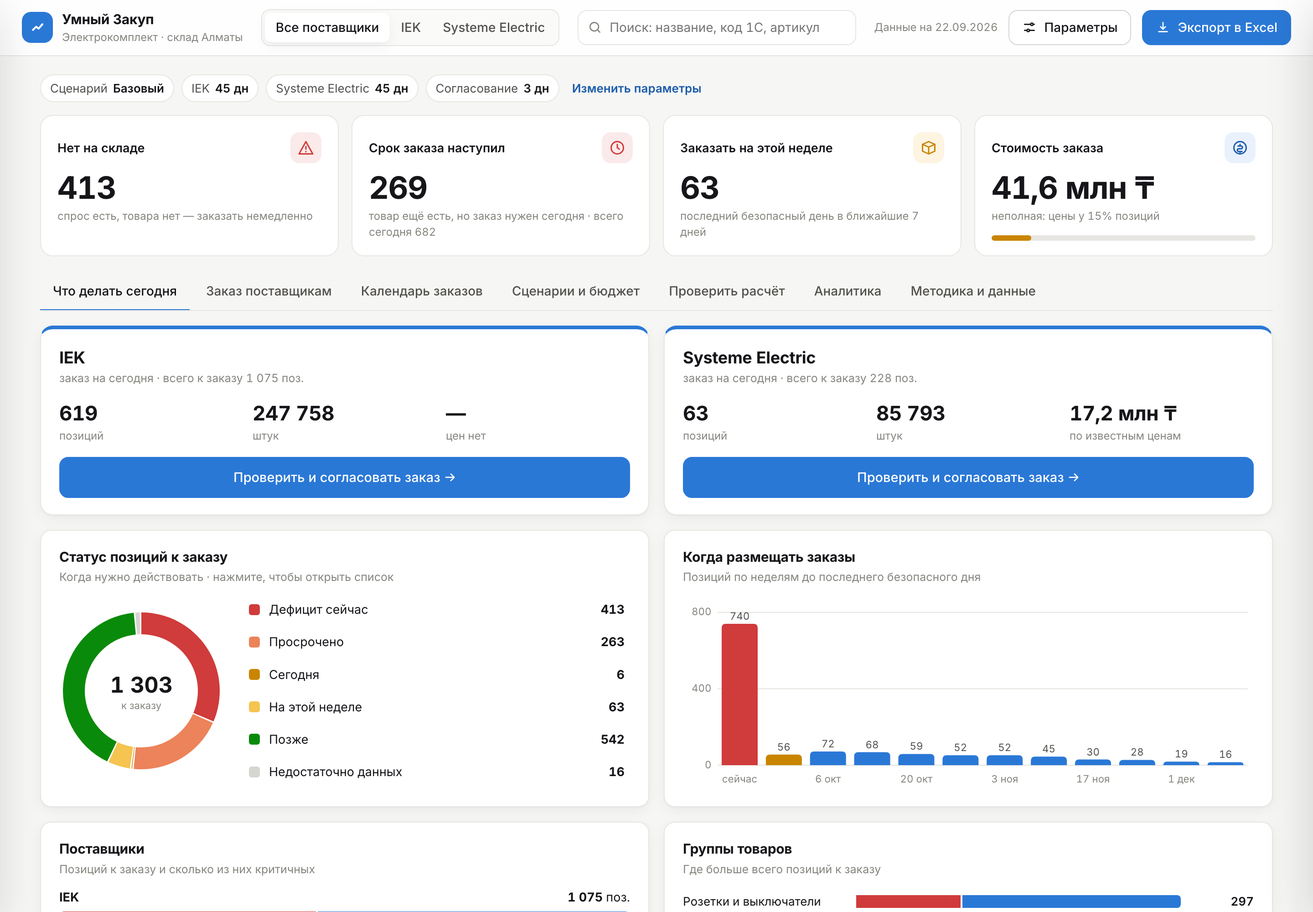
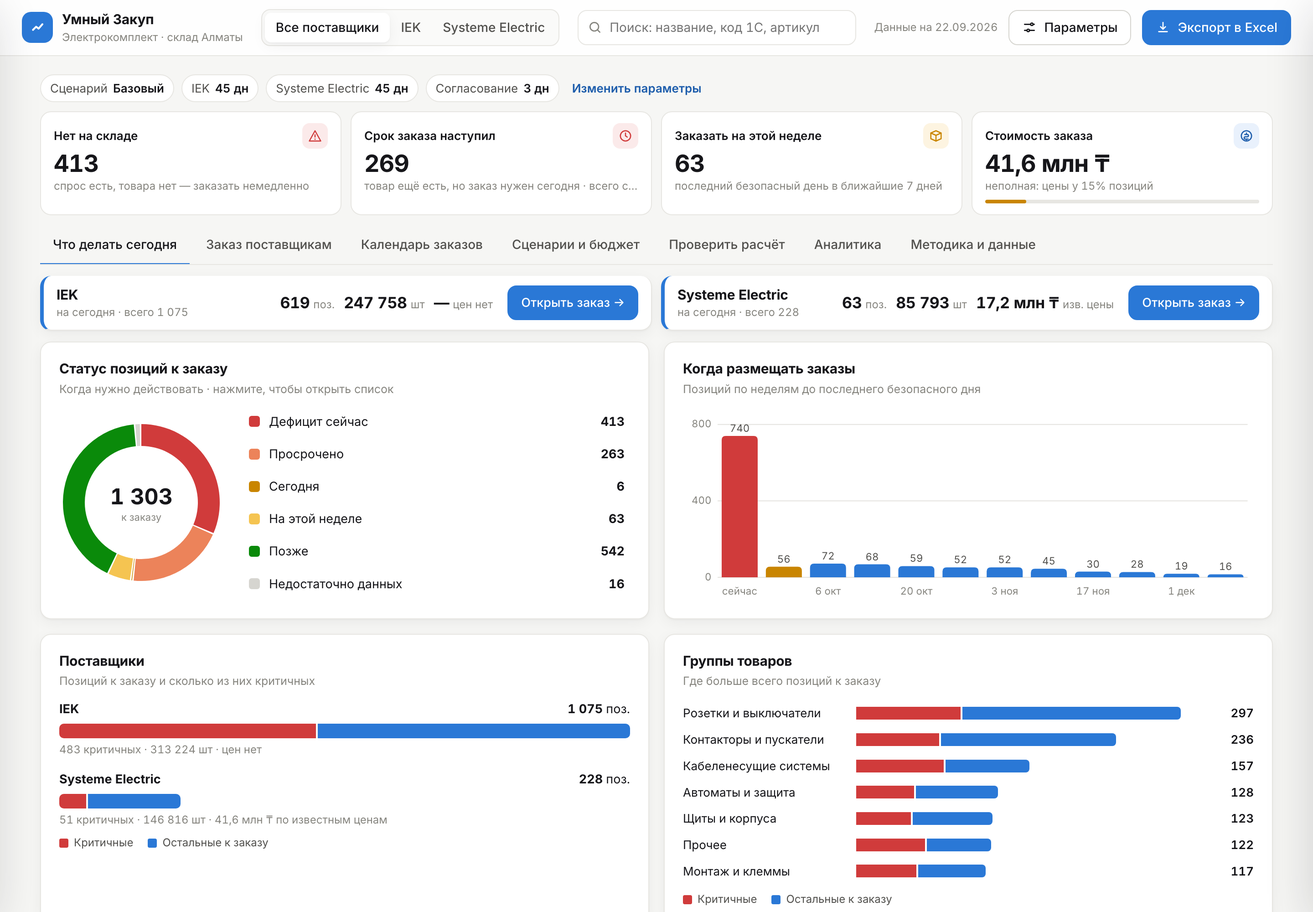
Manual item selection in supplier order (checkboxes, search, add any item); compact KPI and supplier cards

diff --git a/web/app.js b/web/app.js
@@ -272,7 +272,20 @@
     all: ["Весь заказ", "все рекомендованные позиции", (x) => x.final > 0],
   };
   let sheet = { k: null, scope: "today" };
-  const orderLines = (k, scope) => rows.filter((x) => x.s.sup === k && SCOPES[scope][2](x)).sort(Engine.actionCompare);
+  // ручной выбор: off — снятые галочки, add — товары, добавленные вручную через поиск
+  state.pick = store.get("pick", {});
+  const pickOf = (k) => (state.pick[k] ||= { off: [], add: [] });
+  const savePick = () => store.set("pick", state.pick);
+  /** Кандидаты в заказ: рекомендованные в выбранном наборе + добавленные вручную. */
+  function orderCandidates(k, scope) {
+    const pk = pickOf(k);
+    const base = rows.filter((x) => x.s.sup === k && SCOPES[scope][2](x));
+    const ids = new Set(base.map((x) => x.s.id));
+    const added = pk.add.map((id) => rows.find((x) => x.s.id === id)).filter((x) => x && !ids.has(x.s.id));
+    return [...base.sort(Engine.actionCompare), ...added].map((x) => ({ ...x, on: !pk.off.includes(x.s.id), manual: !ids.has(x.s.id) }));
+  }
+  /** Позиции, которые реально уходят в заказ: отмечены и количество > 0. */
+  const orderLines = (k, scope) => orderCandidates(k, scope).filter((x) => x.on && x.final > 0);
   const orderFile = (k) => `Заказ_${SUPS[k].name.replace(/\s+/g, "_")}_${META.asOf}.xlsx`;
 
   function orderSummary(k, lines) {
@@ -291,72 +304,111 @@
   }
 
   function openOrderSheet(k, scope = sheet.scope) {
-    sheet = { k, scope };
+    sheet = { k, scope, q: "" };
     openId = null;
-    const lines = orderLines(k, scope);
+    const d = $("#drawer");
+    d.innerHTML = `
+      <div class="d-head"><div style="min-width:0;flex:1">
+          <div class="muted" style="font-size:12.5px;margin-bottom:4px" id="osStep"></div>
+          <h2>Заказ ${esc(SUPS[k].name)}</h2>
+          <div class="seg" style="margin-top:10px;max-width:100%;overflow-x:auto" role="tablist">${Object.entries(SCOPES).map(([key, [l]]) => `<button class="${key === scope ? "active" : ""}" data-scope="${key}">${l}</button>`).join("")}</div>
+        </div>
+        <button class="d-close" aria-label="Закрыть"><svg viewBox="0 0 24 24"><path d="M6 6l12 12M18 6L6 18"/></svg></button></div>
+      <div class="d-body">
+        <div id="osSum"></div>
+        <div class="os-search">
+          <svg viewBox="0 0 24 24" aria-hidden="true"><circle cx="11" cy="11" r="7"/><path d="M20 20l-3.5-3.5"/></svg>
+          <input id="osQ" type="search" placeholder="Найти товар ${esc(SUPS[k].name)}: название, код 1С, артикул" autocomplete="off" aria-label="Поиск товара в заказе">
+        </div>
+        <div id="osFound"></div>
+        <div id="osList"></div>
+      </div>`;
+    $(".d-close", d).onclick = closeDrawer;
+    $$("[data-scope]", d).forEach((b) => (b.onclick = () => openOrderSheet(k, b.dataset.scope)));
+    let qt;
+    $("#osQ").oninput = (e) => { clearTimeout(qt); qt = setTimeout(() => { sheet.q = e.target.value.trim().toLowerCase(); refreshSheet(); }, 120); };
+    refreshSheet();
+    d.classList.add("open"); d.setAttribute("aria-hidden", "false"); $("#scrim").hidden = false;
+  }
+
+  function refreshSheet() {
+    const { k, scope, q } = sheet;
+    const cand = orderCandidates(k, scope);
+    const lines = cand.filter((x) => x.on && x.final > 0);
     const cov = Engine.priceCoverage(lines);
     const units = lines.reduce((a, x) => a + x.final, 0);
     const crit = lines.filter((x) => ST[x.r.status].rank <= 1).length;
     const ap = state.approved[k];
-    const d = $("#drawer");
-    d.innerHTML = `
-      <div class="d-head"><div>
-          <div class="muted" style="font-size:12.5px;margin-bottom:4px">Заказ поставщику · шаг ${ap ? "3 из 3: отправка" : "1–2 из 3: проверка и согласование"}</div>
-          <h2>${esc(SUPS[k].name)}</h2>
-          <div class="seg" style="margin-top:10px" role="tablist">${Object.entries(SCOPES).map(([key, [l]]) => `<button class="${key === scope ? "active" : ""}" data-scope="${key}">${l}</button>`).join("")}</div>
-        </div>
-        <button class="d-close" aria-label="Закрыть"><svg viewBox="0 0 24 24"><path d="M6 6l12 12M18 6L6 18"/></svg></button></div>
-      <div class="d-body">
-        <div class="facts">
-          <div class="fact main"><div class="f-l">Позиций</div><div class="f-v">${fmt(lines.length)}</div><div class="f-s">${esc(SCOPES[scope][1])}</div></div>
-          <div class="fact"><div class="f-l">Штук</div><div class="f-v">${fmt(units)}</div></div>
-          <div class="fact ${crit ? "crit" : ""}"><div class="f-l">Товара нет или просрочено</div><div class="f-v">${fmt(crit)}</div></div>
-          <div class="fact"><div class="f-l">Сумма</div><div class="f-v">${cov.priced ? money(cov.value) : "Нет данных"}</div><div class="f-s">${cov.missing ? `цены у ${fmt(cov.priced)} из ${fmt(cov.lines)} позиций` : "по себестоимости"}</div></div>
-        </div>
-        <div class="order-steps">
-          ${ap
-            ? `<div class="step-done"><svg viewBox="0 0 24 24"><path d="M5 12l5 5 9-10"/></svg>Согласовано ${esc(ap.at)} на этом устройстве <button class="btn sm ghost" id="osUnapprove">Отменить</button></div>
-               <div class="send-row">
-                 <button class="btn share wa" id="osWa"><svg viewBox="0 0 24 24"><path d="M4 20l1.3-4A8 8 0 1 1 8 19z"/></svg>WhatsApp</button>
-                 <button class="btn share tg" id="osTg"><svg viewBox="0 0 24 24"><path d="M21 4L3 11l6 2 2 6 3-4 5 4z"/></svg>Telegram</button>
-                 <button class="btn share" id="osMail"><svg viewBox="0 0 24 24"><rect x="3" y="5" width="18" height="14" rx="2"/><path d="M3 7l9 6 9-6"/></svg>Почта</button>
-                 ${navigator.canShare ? `<button class="btn share" id="osShare"><svg viewBox="0 0 24 24"><path d="M12 3v12M7 8l5-5 5 5M5 14v5h14v-5"/></svg>Поделиться файлом</button>` : ""}
-                 <button class="btn share" id="osXls"><svg viewBox="0 0 24 24"><path d="M12 4v11m0 0l-4-4m4 4l4-4M5 19h14"/></svg>Скачать Excel</button>
-               </div>
-               <p class="muted" style="font-size:12px;margin:8px 0 0">Сервис ничего не отправляет сам: откроется мессенджер с готовым текстом, получателя выбираете вы. Из браузера на компьютере файл приложить нельзя — Excel скачается, прикрепите его к сообщению. На телефоне «Поделиться файлом» отправит Excel сразу.</p>`
-            : `<p class="say" style="margin:0 0 10px">Проверьте количество — его можно изменить прямо в списке. Затем согласуйте заказ, и появятся кнопки отправки.</p>
-               <div class="send-row"><button class="btn success" id="osApprove" ${lines.length ? "" : "disabled"}>Согласовать заказ</button><button class="btn" id="osXls">Скачать Excel</button></div>`}
-        </div>
-        ${lines.length ? `<div class="table-wrap"><table class="acts">
-          <thead><tr><th>Товар</th><th>Статус</th><th>Заказать до</th><th class="r">Заказ, шт</th></tr></thead>
-          <tbody>${lines.slice(0, 300).map((x) => `<tr data-id="${esc(x.s.id)}">
-            <td><div class="p-name">${esc(x.s.n)}</div><div class="p-meta"><span>${esc(x.s.id)}</span>${x.s.art ? `<span>${esc(x.s.art)}</span>` : ""}</div></td>
-            <td>${statusPill(x.r.status)}</td>
-            <td class="num">${x.r.status === "now" ? "немедленно" : x.r.safeDay == null ? NA : x.r.safeDay <= 0 ? "сегодня" : Engine.fmtDay(x.r.safeDay)}</td>
-            <td class="r"><input class="qty-input ${state.overrides[x.s.id] != null ? "edited" : ""}" type="number" min="0" step="${x.s.moq}" value="${x.final}" data-oq="${esc(x.s.id)}" ${ap ? "disabled" : ""} aria-label="Количество"></td>
-          </tr>`).join("")}</tbody></table></div>
-          ${lines.length > 300 ? `<p class="muted" style="font-size:12.5px">Показаны первые 300 из ${fmt(lines.length)} — полный список в Excel.</p>` : ""}`
-        : `<div class="empty">В этом наборе позиций нет. Выберите «+ эта неделя» или «Весь заказ».</div>`}
+    const off = cand.filter((x) => !x.on).length;
+    const manual = cand.filter((x) => x.manual).length;
+    $("#osStep").textContent = `Заказ поставщику · ${ap ? "шаг 3 из 3: отправка" : "шаг 1–2 из 3: выбор и согласование"}`;
+    $("#osSum").innerHTML = `
+      <div class="os-facts">
+        <div><b class="num">${fmt(lines.length)}</b><span>позиций в заказе${off ? ` · ${fmt(off)} снято` : ""}${manual ? ` · ${fmt(manual)} добавлено` : ""}</span></div>
+        <div><b class="num">${fmt(units)}</b><span>штук</span></div>
+        <div class="${crit ? "crit" : ""}"><b class="num">${fmt(crit)}</b><span>нет товара или просрочено</span></div>
+        <div><b class="num">${cov.priced ? money(cov.value) : "—"}</b><span>${cov.priced ? (cov.missing ? `по ценам ${fmt(cov.priced)} из ${fmt(cov.lines)} поз.` : "по себестоимости") : "цен нет"}</span></div>
+      </div>
+      <div class="order-steps">
+        ${ap
+          ? `<div class="step-done"><svg viewBox="0 0 24 24"><path d="M5 12l5 5 9-10"/></svg>Согласовано ${esc(ap.at)} на этом устройстве <button class="btn sm ghost" id="osUnapprove">Изменить заказ</button></div>
+             <div class="send-row">
+               <button class="btn share wa" id="osWa"><svg viewBox="0 0 24 24"><path d="M4 20l1.3-4A8 8 0 1 1 8 19z"/></svg>WhatsApp</button>
+               <button class="btn share tg" id="osTg"><svg viewBox="0 0 24 24"><path d="M21 4L3 11l6 2 2 6 3-4 5 4z"/></svg>Telegram</button>
+               <button class="btn share" id="osMail"><svg viewBox="0 0 24 24"><rect x="3" y="5" width="18" height="14" rx="2"/><path d="M3 7l9 6 9-6"/></svg>Почта</button>
+               ${navigator.canShare ? `<button class="btn share" id="osShare"><svg viewBox="0 0 24 24"><path d="M12 3v12M7 8l5-5 5 5M5 14v5h14v-5"/></svg>Поделиться файлом</button>` : ""}
+               <button class="btn share" id="osXls"><svg viewBox="0 0 24 24"><path d="M12 4v11m0 0l-4-4m4 4l4-4M5 19h14"/></svg>Excel</button>
+             </div>
+             <p class="muted" style="font-size:12px;margin:8px 0 0">Сервис ничего не отправляет сам: откроется мессенджер с готовым текстом, получателя выбираете вы. На компьютере Excel скачается — приложите его к сообщению; на телефоне «Поделиться файлом» отправит Excel сразу.</p>`
+          : `<div class="send-row" style="align-items:center"><button class="btn success" id="osApprove" ${lines.length ? "" : "disabled"}>Согласовать заказ · ${fmt(lines.length)} поз.</button><button class="btn" id="osXls">Excel</button>
+             <span class="muted" style="font-size:12.5px">Снимите галочки с лишнего, поправьте количество или добавьте товар через поиск.</span></div>`}
       </div>`;
-    $(".d-close", d).onclick = closeDrawer;
-    $$("[data-scope]", d).forEach((b) => (b.onclick = () => openOrderSheet(k, b.dataset.scope)));
-    $$("[data-oq]", d).forEach((inp) => (inp.onchange = () => {
+    // найденные товары поставщика, которых нет в списке — можно добавить
+    const inList = new Set(cand.map((x) => x.s.id));
+    const match = (x) => `${x.s.n} ${x.s.id} ${x.s.art || ""}`.toLowerCase().includes(q);
+    const found = q.length >= 2 && !ap ? rows.filter((x) => x.s.sup === k && !inList.has(x.s.id) && match(x)).slice(0, 8) : [];
+    $("#osFound").innerHTML = found.length ? `<div class="os-found"><div class="muted" style="font-size:12.5px;margin-bottom:6px">Нет в заказе — можно добавить:</div>
+      ${found.map((x) => `<div class="os-f"><span><b>${esc(x.s.n)}</b><br><span class="muted">${esc(x.s.id)}${x.s.art ? " · " + esc(x.s.art) : ""} · остаток ${fmt(x.r.stock)} · ${x.r.qty > 0 ? `рекомендовано ${fmt(x.r.qty)} шт` : "сервис не рекомендует заказ"}</span></span><button class="btn sm" data-add="${esc(x.s.id)}">+ Добавить</button></div>`).join("")}</div>` : "";
+    const shown = q ? cand.filter(match) : cand;
+    $("#osList").innerHTML = shown.length ? `<div class="table-wrap"><table class="acts os-table">
+        <thead><tr><th style="width:34px"><input type="checkbox" id="osAll" ${shown.every((x) => x.on) ? "checked" : ""} ${ap ? "disabled" : ""} aria-label="Выбрать все показанные"></th><th>Товар</th><th>Статус</th><th class="r">Заказ, шт</th></tr></thead>
+        <tbody>${shown.slice(0, 400).map((x) => `<tr class="${x.on ? "" : "off"}">
+          <td><input type="checkbox" data-on="${esc(x.s.id)}" ${x.on ? "checked" : ""} ${ap ? "disabled" : ""} aria-label="Включить в заказ"></td>
+          <td><div class="p-name">${esc(x.s.n)}${x.manual ? ' <span class="badge in">добавлен вручную</span>' : ""}</div><div class="p-meta"><span>${esc(x.s.id)}</span>${x.s.art ? `<span>${esc(x.s.art)}</span>` : ""}<span>${x.r.status === "now" ? "заказать немедленно" : x.r.safeDay == null ? "" : x.r.safeDay <= 0 ? "заказать сегодня" : "до " + Engine.fmtDay(x.r.safeDay)}</span></div></td>
+          <td>${statusPill(x.r.status)}</td>
+          <td class="r"><input class="qty-input ${state.overrides[x.s.id] != null ? "edited" : ""}" type="number" min="0" step="${x.s.moq}" value="${x.final}" data-oq="${esc(x.s.id)}" ${ap || !x.on ? "disabled" : ""} aria-label="Количество">${x.on && !(x.final > 0) ? '<div class="rec-hint" style="color:var(--warn)">укажите количество</div>' : ""}</td>
+        </tr>`).join("")}</tbody></table></div>
+        ${shown.length > 400 ? `<p class="muted" style="font-size:12.5px">Показаны первые 400 из ${fmt(shown.length)} — уточните поиск. В заказ и Excel попадают все отмеченные.</p>` : ""}`
+      : `<div class="empty">${q ? "В заказе таких товаров нет — выше можно добавить найденные." : "В этом наборе позиций нет. Выберите «+ эта неделя» или «Весь заказ»."}</div>`;
+
+    const pk = pickOf(k);
+    const setOn = (id, on) => { pk.off = pk.off.filter((x) => x !== id); if (!on) pk.off.push(id); };
+    $$("[data-on]").forEach((c) => (c.onchange = () => { setOn(c.dataset.on, c.checked); savePick(); refreshSheet(); }));
+    if ($("#osAll")) $("#osAll").onchange = (e) => { shown.forEach((x) => setOn(x.s.id, e.target.checked)); savePick(); refreshSheet(); };
+    $$("[data-add]").forEach((b) => (b.onclick = () => {
+      const id = b.dataset.add;
+      if (!pk.add.includes(id)) pk.add.push(id);
+      setOn(id, true); savePick();
+      const x = rows.find((r) => r.s.id === id);
+      if (!(x.final > 0)) toast("Товар добавлен — укажите количество");
+      refreshSheet();
+    }));
+    $$("[data-oq]").forEach((inp) => (inp.onchange = () => {
       const row = rows.find((x) => x.s.id === inp.dataset.oq);
       const v = Math.max(0, Math.round(+inp.value || 0));
       if (v === row.r.qty) delete state.overrides[row.s.id]; else state.overrides[row.s.id] = v;
-      store.set("overrides", state.overrides); recompute(); render(); openOrderSheet(k, scope);
+      store.set("overrides", state.overrides); recompute(); render(); refreshSheet();
     }));
     const xls = () => { XLSX.writeFile(buildWorkbook([k], () => lines, ap ? `Согласовано ${ap.at}, отправляет менеджер` : null), orderFile(k)); };
     $("#osXls").onclick = () => { xls(); toast("Excel скачан"); };
     if (!ap) {
       $("#osApprove").onclick = () => {
         state.approved[k] = { at: new Date().toLocaleString("ru-RU", { day: "2-digit", month: "2-digit", hour: "2-digit", minute: "2-digit" }), n: lines.length };
-        store.set("approved", state.approved); render(); openOrderSheet(k, scope); toast("Заказ согласован — выберите, куда отправить");
+        store.set("approved", state.approved); render(); refreshSheet(); toast("Заказ согласован — выберите, куда отправить");
       };
-      d.classList.add("open"); d.setAttribute("aria-hidden", "false"); $("#scrim").hidden = false;
       return;
     }
-    $("#osUnapprove").onclick = () => { delete state.approved[k]; store.set("approved", state.approved); render(); openOrderSheet(k, scope); };
+    $("#osUnapprove").onclick = () => { delete state.approved[k]; store.set("approved", state.approved); render(); refreshSheet(); };
     const text = orderSummary(k, lines);
     const go = (url) => window.open(url, "_blank", "noopener");
     $("#osWa").onclick = () => { xls(); go(`https://wa.me/?text=${encodeURIComponent(text)}`); };
@@ -366,23 +418,24 @@
       const blob = new Blob([XLSX.write(buildWorkbook([k], () => lines, `Согласовано ${ap.at}`), { type: "array", bookType: "xlsx" })], { type: "application/vnd.openxmlformats-officedocument.spreadsheetml.sheet" });
       const file = new File([blob], orderFile(k), { type: blob.type });
       if (navigator.canShare && navigator.canShare({ files: [file] })) {
-        try { await navigator.share({ files: [file], title: `Заказ ${SUPS[k].name}`, text: text.split("\n").slice(0, 3).join("\n") }); } catch { /* пользователь отменил */ }
+        try { await navigator.share({ files: [file], title: `Заказ ${SUPS[k].name}`, text: text.split("\n").slice(0, 3).join("\n") }); } catch { /* отменено */ }
       } else { xls(); toast("Это устройство не умеет делиться файлом — Excel скачан"); }
     };
-    d.classList.add("open"); d.setAttribute("aria-hidden", "false"); $("#scrim").hidden = false;
   }
 
   function supplierOrderCards(base) {
     return `<div class="order-cards">${Object.keys(REAL_SUPS).filter((k) => state.sup === "all" || k === state.sup).map((k) => {
-      const today = base.filter((x) => x.s.sup === k && Engine.isOrderToday(x));
+      const lines = orderLines(k, "today");
       const all = base.filter((x) => x.s.sup === k && x.final > 0);
-      const cov = Engine.priceCoverage(today);
+      const cov = Engine.priceCoverage(lines);
       const ap = state.approved[k];
+      const pk = pickOf(k);
+      const edited = pk.off.length || pk.add.length;
       return `<div class="order-card">
-        <div class="oc-top"><div><div class="oc-sup">${esc(REAL_SUPS[k].name)}</div><div class="muted" style="font-size:12.5px">заказ на сегодня · всего к заказу ${fmt(all.length)} поз.</div></div>
-          ${ap ? `<span class="approved-badge"><svg viewBox="0 0 24 24"><path d="M5 12l5 5 9-10"/></svg>Согласован ${esc(ap.at)}</span>` : ""}</div>
-        <div class="oc-nums"><div><b class="num">${fmt(today.length)}</b><span>позиций</span></div><div><b class="num">${fmt(today.reduce((a, x) => a + x.final, 0))}</b><span>штук</span></div><div><b class="num">${cov.priced ? money(cov.value) : "—"}</b><span>${cov.priced ? (cov.missing ? "по известным ценам" : "сумма") : "цен нет"}</span></div></div>
-        <button class="btn primary oc-btn" data-order="${k}">${ap ? "Отправить заказ" : "Проверить и согласовать заказ"} →</button>
+        <div class="oc-name"><div class="oc-sup">${esc(REAL_SUPS[k].name)}</div><div class="muted">на сегодня${edited ? " · изменён" : ""} · всего ${fmt(all.length)}</div></div>
+        <div class="oc-nums"><div><b class="num">${fmt(lines.length)}</b><span>поз.</span></div><div><b class="num">${fmt(lines.reduce((a, x) => a + x.final, 0))}</b><span>шт</span></div><div><b class="num">${cov.priced ? money(cov.value) : "—"}</b><span>${cov.priced ? (cov.missing ? "изв. цены" : "сумма") : "цен нет"}</span></div></div>
+        ${ap ? `<span class="approved-badge"><svg viewBox="0 0 24 24"><path d="M5 12l5 5 9-10"/></svg>${esc(ap.at)}</span>` : ""}
+        <button class="btn primary oc-btn" data-order="${k}">${ap ? "Отправить" : "Открыть заказ"} →</button>
       </div>`;
     }).join("")}</div>`;
   }

diff --git a/web/styles.css b/web/styles.css
@@ -475,3 +475,62 @@ h2.sec:first-child { margin-top: 4px; }
   .kpi .k-value { font-size: 22px; }
   .d-head, .d-body { padding-left: 16px; padding-right: 16px; }
 }
+
+/* ---------- компактнее: показатели и поставщики ---------- */
+.ctx { margin-bottom: 10px; }
+.kpis { gap: 10px !important; margin-bottom: 12px !important; }
+.kpi { padding: 12px 14px !important; border-radius: 12px !important; gap: 0; }
+.kpi .k-ico { width: 28px; height: 28px; border-radius: 8px; }
+.kpi .k-ico svg { width: 15px; height: 15px; }
+.kpi .k-value { font-size: 26px !important; margin-top: 2px !important; }
+.kpi .k-label { font-size: 13px !important; }
+.kpi .k-sub { white-space: nowrap; overflow: hidden; text-overflow: ellipsis; }
+.kpi .k-bar { margin-top: 6px; height: 4px; }
+.order-cards { gap: 10px; margin-bottom: 12px; grid-template-columns: repeat(auto-fit, minmax(420px, 1fr)); }
+.order-card { flex-direction: row; align-items: center; gap: 14px; padding: 10px 14px; border-top: 0; border-left: 4px solid var(--accent); border-radius: 12px; flex-wrap: wrap; }
+.oc-name { min-width: 130px; flex: 1; }
+.oc-name .muted { font-size: 12px; }
+.oc-sup { font-size: 15px; }
+.oc-nums { display: flex; gap: 16px; flex: none; }
+.oc-nums div { flex-direction: row; align-items: baseline; gap: 4px; }
+.oc-nums b { font-size: 17px; }
+.oc-btn { padding: 8px 14px; font-size: 13.5px; flex: none; }
+.order-card .approved-badge { font-size: 12px; }
+.tabs { margin-bottom: 12px; }
+/* ---------- окно заказа ---------- */
+.os-facts { display: grid; grid-template-columns: repeat(4, minmax(0, 1fr)); gap: 8px; margin-bottom: 10px; }
+.os-facts div { background: var(--surface-2); border: 1px solid var(--line); border-radius: 10px; padding: 8px 10px; display: flex; flex-direction: column; }
+.os-facts b { font-size: 18px; font-weight: 700; }
+.os-facts span { font-size: 11.5px; color: var(--text-3); }
+.os-facts .crit { background: var(--crit-soft); border-color: transparent; }
+.os-facts .crit b { color: var(--crit); }
+.os-search { position: relative; }
+.os-search svg { position: absolute; left: 11px; top: 50%; width: 16px; height: 16px; transform: translateY(-50%); stroke: var(--text-3); fill: none; stroke-width: 2; }
+.os-search input { width: 100%; padding: 9px 12px 9px 34px; border: 1px solid var(--line-strong); border-radius: 10px; background: var(--surface); font: inherit; color: var(--text); }
+.os-search input:focus { outline: none; border-color: var(--accent); box-shadow: 0 0 0 3px var(--accent-soft); }
+.os-found { border: 1px dashed var(--accent); border-radius: 10px; padding: 10px 12px; background: var(--accent-soft); }
+.os-f { display: flex; justify-content: space-between; align-items: center; gap: 10px; padding: 6px 0; border-top: 1px solid color-mix(in srgb, var(--accent) 20%, transparent); font-size: 13px; }
+.os-f:first-of-type { border-top: 0; }
+.os-table tr.off td { opacity: .45; }
+.os-table tr.off td:first-child { opacity: 1; }
+.os-table input[type=checkbox] { width: 17px; height: 17px; accent-color: var(--accent); cursor: pointer; }
+.os-table td { padding-top: 8px; padding-bottom: 8px; }
+@media (max-width: 600px) {
+  .order-cards { grid-template-columns: 1fr; }
+  .oc-btn { width: 100%; justify-content: center; }
+  .os-facts { grid-template-columns: repeat(2, minmax(0, 1fr)); }
+  .kpi .k-sub { white-space: normal; }
+}
+.order-card { display: grid; grid-template-columns: minmax(0, 1fr) auto auto; flex-wrap: nowrap; column-gap: 16px; }
+.order-card .approved-badge { display: none; }
+.oc-name .muted { white-space: nowrap; overflow: hidden; text-overflow: ellipsis; }
+.oc-nums { gap: 12px; }
+.oc-nums span { white-space: nowrap; }
+@media (max-width: 1150px) { .order-card { grid-template-columns: minmax(0, 1fr) auto; row-gap: 8px; } .oc-btn { grid-column: 1 / -1; justify-content: center; } }
+@media (max-width: 600px) { .order-card { grid-template-columns: 1fr; } .oc-nums { flex-wrap: wrap; } }
+.order-card { grid-template-columns: minmax(140px, 1fr) auto auto; }
+.oc-sup { white-space: nowrap; overflow: hidden; text-overflow: ellipsis; }
+@media (max-width: 1400px) { .order-card { grid-template-columns: minmax(0, 1fr) auto; row-gap: 8px; } .oc-btn { grid-column: 1 / -1; justify-content: center; } }
+@media (max-width: 600px) { .order-card { grid-template-columns: 1fr; } }
+.oc-nums b { white-space: nowrap; }
+.oc-nums { gap: 10px; }

diff --git a/web/sw.js b/web/sw.js
@@ -2,7 +2,7 @@
  * При первом открытии сохраняет все файлы сервиса в браузере; дальше сервис открывается
  * и считает без интернета. При наличии сети всегда берёт свежую версию (сначала сеть,
  * затем кэш), поэтому обновления данных видны сразу. */
-const VERSION = "umny-zakup-v5";
+const VERSION = "umny-zakup-v6";
 const CORE = ["./", "index.html", "styles.css", "app.js", "engine.js", "coverage.js", "assumptions.js", "data.js", "vendor/xlsx.full.min.js", "manifest.webmanifest", "icon.svg"];
 
 self.addEventListener("install", (e) => {

diff --git a/README.md b/README.md
@@ -185,7 +185,7 @@ flowchart LR
 
 На главном экране — карточка каждого поставщика: сколько позиций заказать сегодня, штук и сумма по известным ценам. Кнопка **«Проверить и согласовать заказ»** открывает готовый заказ:
 
-1. **Проверить** — список позиций, количество можно поправить прямо в нём; можно взять только срочное, добавить позиции этой недели или весь заказ.
+1. **Выбрать** — менеджер сам решает, что покупать: галочки у каждой позиции, поиск по названию, коду 1С или артикулу, кнопка «+ Добавить» для любого товара поставщика, правка количества. Можно взять только срочное, добавить позиции этой недели или весь заказ. Итоги, Excel и сообщение считаются только по отмеченным позициям.
 2. **Согласовать** — отметка на этом устройстве.
 3. **Отправить** — кнопки **WhatsApp**, **Telegram**, **Почта**: открывается мессенджер с готовым текстом заказа (итоги и первые 15 позиций), Excel скачивается для вложения. На телефоне кнопка **«Поделиться файлом»** отправляет Excel сразу.
 
